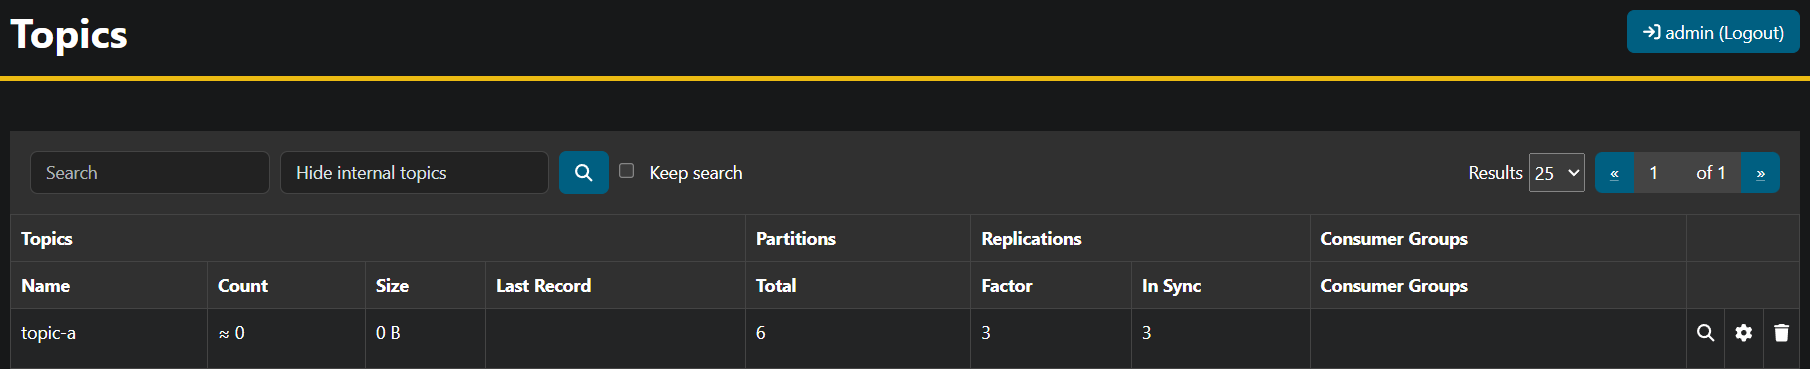
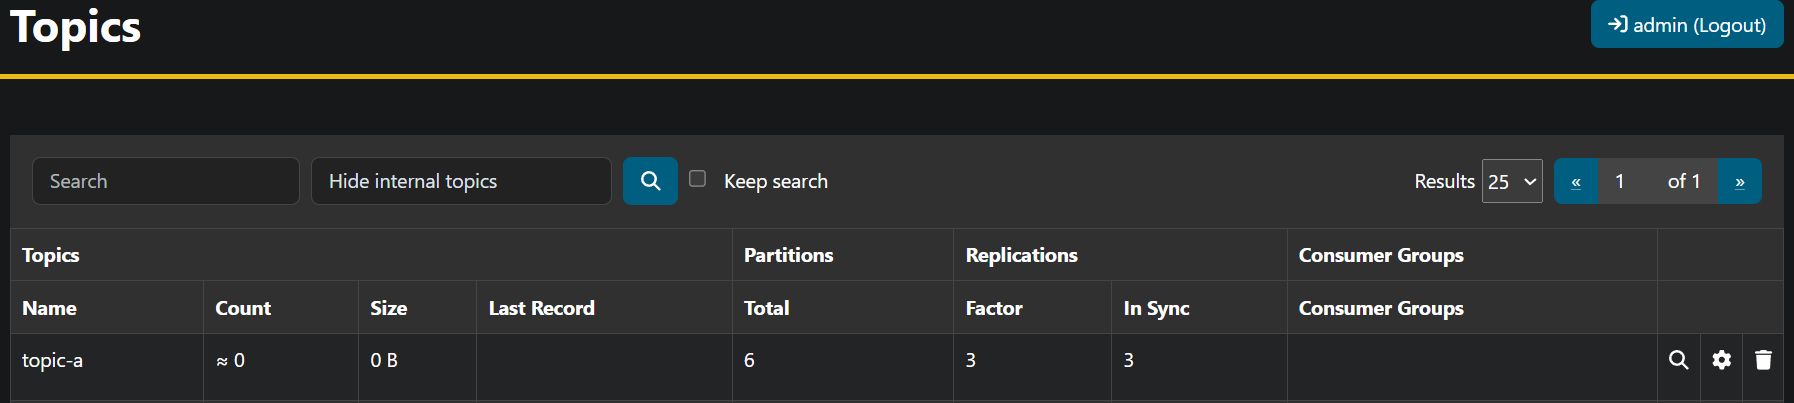
add better pictures, fix some docs

diff --git a/docs/docs/guides/create-kafka-objects.md b/docs/docs/guides/create-kafka-objects.md
@@ -180,7 +180,7 @@ Kafka Topic objects created in Kubernetes
 NAMESPACE   NAME      SYNCED   READY   CONNECTION-SECRET   AGE
 team-a      topic-a   True     True                        19h
 
-[root@ip-10-201-0-207 ~]# kubectl get topic.topic.kafka.crossplane.io
+[~]# kubectl get topic.topic.kafka.crossplane.io
 NAME                                 READY   SYNCED   EXTERNAL-NAME                        AGE
 topic-a                              True    True     team-a                               19h
 ```
